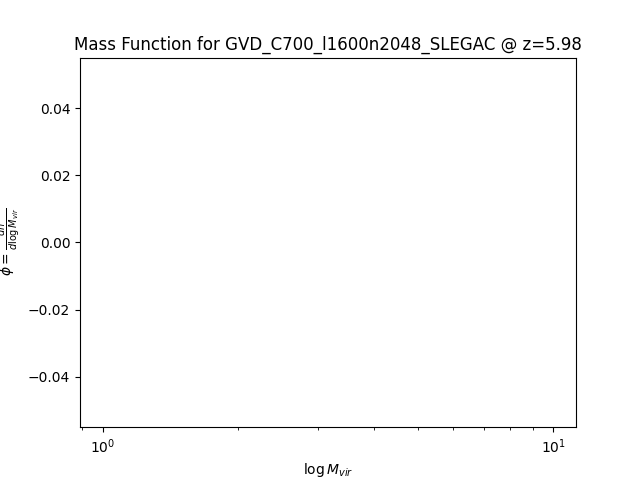
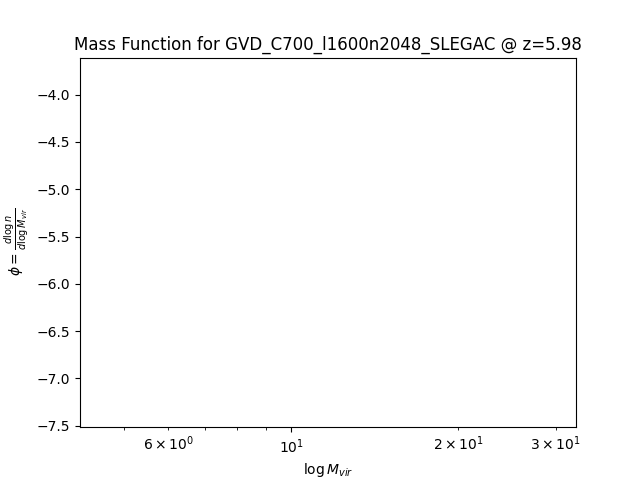
Squashed commit of the following:
commit 16c53a664b029370dcd02c951959c12960cd30a9
Author: Tiernan8r <tiernan8r@pm.me>
Date:   Thu Jun 23 11:06:53 2022 +0100

    print statements

commit 36c287fd8ef84abc0f3a7d7bb91c87a6d5d90b36
Author: Tiernan8r <tiernan8r@pm.me>
Date:   Thu Jun 23 10:56:00 2022 +0100

    change to hardcoding desired radii

commit db9c5324379c2b72e83e9e5def966bd9c810406d
Author: Tiernan8r <tiernan8r@pm.me>
Date:   Wed Jun 22 16:31:07 2022 +0100

    run of new code

commit 09c2c985d93d640fcf800b36398fa0de2620bd9b
Author: Tiernan8r <tiernan8r@pm.me>
Date:   Wed Jun 22 16:28:55 2022 +0100

    Update to calculations.py:

    Update the sampling by sphere to get the individual masses of all halos
    in the sample, and store that in the `masses` array.

    The calculation of the `rho_bar` & `rho` parameters is now done using
    the `all_data()` method, and separate to the sphere halo masses
    respectively.

    Also add more log messages & comments.

commit b388b85807f6e5eba18d2e219886d5b42de5defd
Author: Tiernan8r <tiernan8r@pm.me>
Date:   Wed Jun 22 15:38:11 2022 +0100

    set new variable to control #bins for delta plots

commit 2fc4e86846f2e90f8a4b3aea85132adedc75572d
Author: Tiernan8r <tiernan8r@pm.me>
Date:   Wed Jun 22 15:37:50 2022 +0100

    rm sbatch dir nesting

commit f974ca5b50b1231444792ad9a52a45f28bf3eba0
Author: Tiernan8r <tiernan8r@pm.me>
Date:   Wed Jun 22 14:58:06 2022 +0100

    change to a better name for cache from helpers.py
[…]

diff --git a/code/calculations.py b/code/calculations.py
@@ -15,9 +15,9 @@ SIM_FOLDER = f"{SIM_NAME}/"
 
 sim_regex = re.compile("^.*(GVD_C(\d{3})_l(\d+)n(\d+)_SLEGAC).*$")
 
-NUM_SAMPLES_PER_SPHERE = 10
-NUM_SPHERE_SIZES = 1
+NUM_SPHERE_SAMPLES = 1000
 NUM_HIST_BINS = 1000
+NUM_OVERDENSITY_HIST_BINS = 1000
 
 MASS_FN_PLOTS_DIR = "../plots/mass_function/{0}/"
 MASS_FN_PLOTS_FNAME_PTRN = MASS_FN_PLOTS_DIR + \
@@ -25,9 +25,11 @@ MASS_FN_PLOTS_FNAME_PTRN = MASS_FN_PLOTS_DIR + \
 
 OVERDENSITY_PLOTS_DIR = "../plots/deltas/{0}/"
 OVERDENSITY_PLOTS_FNAME_PTRN = OVERDENSITY_PLOTS_DIR + \
-    "overdensity_r{1:.2f}-z{z:.2f}.png"
+    "overdensity_r{1:.2f}-z{2:.2f}.png"
 
 DESIRED_REDSHIFTS = [0, 1, 2, 6, 10]
+DESIRED_RADII = [50]
+# DESIRED_RADII = [10, 20, 50, 100]
 
 
 def main():
@@ -46,9 +48,13 @@ def main():
 
         total_mass_function(rck, sim_size)
 
-        for radius in calc_radii(sim_size, min=50):
+        for radius in DESIRED_RADII:
             z, masses, deltas = halo_work(rck, radius)
+
+            print("Generating plot for this data...")
             plot(z, radius, masses, deltas, sim_name=simulation_name)
+
+    print("DONE calculations\n")
 
 
 def total_mass_function(rck, sim_size):
@@ -95,26 +101,34 @@ def halo_work(rck: str, radius: float):
     sim_size = (ds.domain_width[0]).to(dist_units)
     print("simulation size is:", sim_size)
 
-    # Get the average density over the region
-    rg = ds.r[:]
-    try:
-        rho_bar = rg.quantities.total_mass()[1] / (sim_size*a)**3
-    except unyt.exceptions.IterableUnitCoercionError as e:
-        print("Error reading regions quantities from database, ignoring...")
-        print(e)
-
     coord_min = radius
     coord_max = sim_size.value - radius
 
     coords = rand_coords(
-        NUM_SAMPLES_PER_SPHERE, min=coord_min, max=coord_max) * dist_units
+        NUM_SPHERE_SAMPLES, min=coord_min, max=coord_max) * dist_units
 
-    masses = unyt.unyt_array(
-        [], ds.units.Msun / ds.units.h)
+    masses = unyt.unyt_array([], ds.units.Msun/ds.units.h)
     deltas = []
 
+    # Try to get the entire dataset region
+    try:
+        ad = ds.all_data()
+    except TypeError as te:
+        print("error getting all dataset region")
+        print(te)
+        return z, unyt.unyt_array(masses), unyt.unyt_array(deltas)
+
+    # Get the average density over the region
+    try:
+        rho_bar = ad.quantities.total_mass()[1] / (sim_size*a)**3
+    except unyt.exceptions.IterableUnitCoercionError as e:
+        print("Error reading regions quantities from database, ignoring...")
+        print(e)
+
+    # Iterate over all the randomly sampled coordinates
     for c in coords:
         print(f"Creating sphere @ ({c[0]}, {c[1]}, {c[2]}) with radius {R}")
+        # Try to sample a sphere of the given radius at this coord
         try:
             sp = ds.sphere(c, R)
         except Exception as e:
@@ -122,29 +136,30 @@ def halo_work(rck: str, radius: float):
             print(e)
             continue
 
+        # Try to read the masses of halos in this sphere
         try:
-            m = sp.quantities.total_mass()[1]
+            m = sp["halos", "particle_mass"]
         except Exception as e:
             print("error reading sphere total_mass()")
             print(e)
             continue
 
-        rho = m / V
-        delta = (rho - rho_bar) / rho_bar
-        deltas.append(delta)
+        print(f"Found {len(m)} halos in this sphere sample")
 
-        mass = m.to(ds.units.Msun / ds.units.h)
+        masses = unyt.uconcatenate((masses, m))
 
-        masses = unyt.uconcatenate((masses, [mass]))
+        # Try to calculate the overdensity of the sphere
+        try:
+            rho = sp.quantities.total_mass()[1] / V
+            delta = (rho - rho_bar) / rho_bar
+            deltas.append(delta)
+        except unyt.exceptions.IterableUnitCoercionError as e:
+            print("Error reading sphere quantities, ignoring...")
+            print(e)
 
-    return z, sorted(masses), sorted(deltas)
+    print(f"DONE reading {NUM_SPHERE_SAMPLES} sphere samples\n")
 
-
-def calc_radii(sim_size: float, min=0):
-    radii = np.linspace(start=min, stop=sim_size,
-                        num=NUM_SPHERE_SIZES)
-
-    return [float(r) for r in radii]
+    return z, masses, unyt.unyt_array(deltas)
 
 
 def rand_coords(amount: int, min: int = 0, max: int = 100, seed=0):
@@ -162,25 +177,32 @@ def plot(z, radius, masses, deltas, sim_name="default"):
 
     mass_hist = mass_hist / V
 
+    print(f"Plotting mass function at z={z:.2f}...")
+
     title = f"Mass Function for {sim_name} @ z={z:.2f}"
     save_dir = MASS_FN_PLOTS_DIR.format(sim_name)
     plot_name = MASS_FN_PLOTS_FNAME_PTRN.format(sim_name, radius, z)
 
     plot_mass_function(mass_hist, mass_bin_edges, title, save_dir, plot_name)
 
+    print(f"Plotting overdensities at z={z:.2f}...")
+
     title = f"Overdensity for {sim_name} @ z={z:.2f}"
     save_dir = OVERDENSITY_PLOTS_DIR.format(sim_name)
     plot_name = OVERDENSITY_PLOTS_FNAME_PTRN.format(sim_name, radius, z)
-    plot_delta(deltas, sim_name=sim_name)
+    plot_delta(deltas, title, save_dir, plot_name)
 
 
 def plot_mass_function(hist, bin_edges, title, save_dir, plot_f_name):
-    plt.plot(np.log(bin_edges[:-1]), np.log(hist))
+    x = np.log(bin_edges[:-1])
+    y = np.log(hist)
+
+    plt.plot(x, y)
     plt.gca().set_xscale("log")
 
     plt.title(title)
     plt.xlabel("$\log{M_{vir}}$")
-    plt.ylabel("$\phi=\\frac{d n}{d \log{M_{vir}}}$")
+    plt.ylabel("$\phi=\\frac{d \log{n}}{d \log{M_{vir}}}$")
 
     # Ensure the folders exist before attempting to save an image to it...
     if not os.path.isdir(save_dir):
@@ -191,7 +213,7 @@ def plot_mass_function(hist, bin_edges, title, save_dir, plot_f_name):
 
 
 def plot_delta(deltas, title, save_dir, plot_f_name):
-    plt.hist(deltas, bins=NUM_HIST_BINS)
+    plt.hist(deltas, bins=NUM_OVERDENSITY_HIST_BINS)
 
     plt.title(title)
     plt.xlabel("Overdensity value")

diff --git a/code/helpers.py b/code/helpers.py
@@ -1,7 +1,11 @@
+import functools
 import math
 import os
+import pickle
 import re
-from typing import Dict, List, Tuple
+from typing import Any, Dict, List, Tuple
+
+PATH_TO_CACHE = "../data/helpers.pickle"
 
 ROOT = "/disk12/legacy/"
 
@@ -13,13 +17,11 @@ DATA_SETS = [
     "GVD_C900_l100n2048_SLEGAC/",
     "GVD_C900_l1600n2048_SLEGAC/",
 ]
-
 TEST_DATA_SETS = [
     "GVD_C700_l100n256_SLEGAC/",
     "GVD_C700_l1600n256_SLEGAC/",
     "GVD_C700_l1600n64_SLEGAC/",
 ]
-
 ALL_DATA_SETS = sorted(DATA_SETS + TEST_DATA_SETS)
 
 PATHS = [ROOT + ds for ds in DATA_SETS]
@@ -42,6 +44,24 @@ rockstar_root_regex = re.compile(".*rockstar/$")
 sim_regex = re.compile("^(GVD_C(\d{3})_l(\d+)n(\d+)_SLEGAC)$")
 
 
+@functools.lru_cache(maxsize=1)
+def _get_cache() -> Dict[str, Any]:
+    if os.path.exists(PATH_TO_CACHE):
+        with open(PATH_TO_CACHE, "rb") as f:
+            return pickle.load(f)
+    else:
+        return {}
+
+
+GLOBAL_CACHE = _get_cache()
+
+
+def _save_cache():
+    global GLOBAL_CACHE
+    with open(PATH_TO_CACHE, "wb") as f:
+        pickle.dump(GLOBAL_CACHE, f)
+
+
 def _find_directories(sim_name: str) -> Tuple[str, str, str]:
     if not sim_regex.match(sim_name):
         return "/tmp", "/tmp", "/tmp"
@@ -54,9 +74,6 @@ def _find_directories(sim_name: str) -> Tuple[str, str, str]:
 
 
 def find_data_files(sim_name: str) -> Tuple[List[str], List[str], List[str]]:
-
-    snap, group, rock = _find_directories(sim_name)
-
     def find(dirname: str, file_reg: re.Pattern, root_reg: re.Pattern = None):
         l = []
 
@@ -70,11 +87,30 @@ def find_data_files(sim_name: str) -> Tuple[List[str], List[str], List[str]]:
 
         return l
 
-    groups = find(group, groups_regex)
-    rockstars = find(rock, rockstar_regex, rockstar_root_regex)
-    snapshots = find(snap, snapshots_regex)
+    global GLOBAL_CACHE
 
-    return sorted(snapshots), sorted(groups), sorted(rockstars),
+    if sim_name not in GLOBAL_CACHE:
+        GLOBAL_CACHE[sim_name] = {}
+
+    if "dirs" not in GLOBAL_CACHE[sim_name]:
+
+        snap, group, rock = _find_directories(sim_name)
+
+        groups = find(group, groups_regex)
+        rockstars = find(rock, rockstar_regex, rockstar_root_regex)
+        snapshots = find(snap, snapshots_regex)
+
+        dirs = {
+            "snapshots": sorted(snapshots),
+            "groups": sorted(groups),
+            "rockstars": sorted(rockstars),
+        }
+
+        GLOBAL_CACHE[sim_name]["dirs"] = dirs
+        _save_cache()
+
+    dirs = GLOBAL_CACHE[sim_name]["dirs"]
+    return dirs["snapshots"], dirs["groups"], dirs["rockstars"]
 
 
 rockstar_ascii_reg = re.compile("^(halos_(\d+).0).ascii$")
@@ -82,22 +118,31 @@ rockstar_a_factor = re.compile("^#a = (.*)$")
 
 
 def determine_redshifts(sim_name: str) -> Dict[float, str]:
-    _, _, rock = _find_directories(sim_name)
+    global GLOBAL_CACHE
 
-    map = {}
+    if sim_name not in GLOBAL_CACHE:
+        GLOBAL_CACHE[sim_name] = {}
+    if "redshifts" not in GLOBAL_CACHE[sim_name]:
 
-    for dirname, subdirs, files in os.walk(rock):
-        for file in files:
-            if rockstar_ascii_reg.match(file):
-                with open(dirname + file) as f:
-                    # Read the second line in the vals file, which says the expansion factor
-                    a = f.readlines()[1]
-                    a_val = float(rockstar_a_factor.match(a).group(1))
-                    # convert from comoving to redshift
-                    z = (1 / a_val) - 1
-                    map[z] = rockstar_ascii_reg.match(file).group(2)
+        _, _, rock = _find_directories(sim_name)
 
-    return map
+        map = {}
+
+        for dirname, subdirs, files in os.walk(rock):
+            for file in files:
+                if rockstar_ascii_reg.match(file):
+                    with open(dirname + file) as f:
+                        # Read the second line in the vals file, which says the expansion factor
+                        a = f.readlines()[1]
+                        a_val = float(rockstar_a_factor.match(a).group(1))
+                        # convert from comoving to redshift
+                        z = (1 / a_val) - 1
+                        map[z] = rockstar_ascii_reg.match(file).group(2)
+
+        GLOBAL_CACHE[sim_name]["redshifts"] = map
+        _save_cache()
+
+    return GLOBAL_CACHE[sim_name]["redshifts"]
 
 
 def filter_redshifts(sim_name: str, desired: List[float], tolerance=0.02) -> Dict[float, str]:
@@ -113,6 +158,7 @@ def filter_redshifts(sim_name: str, desired: List[float], tolerance=0.02) -> Dic
 
 
 def filter_data_files(sim_name: str, desired: List[float], tolerance=0.02) -> Tuple[List[str], List[str], List[str]]:
+    # TODO: Optimise
     redshifts = filter_redshifts(sim_name, desired, tolerance)
     snaps, groups, rocks = find_data_files(sim_name)
 
